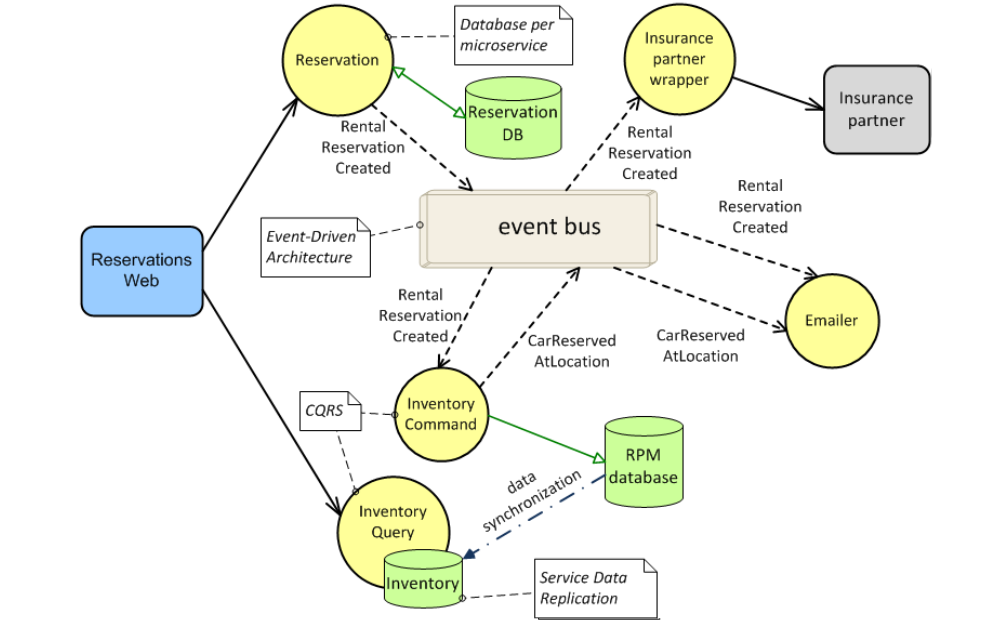
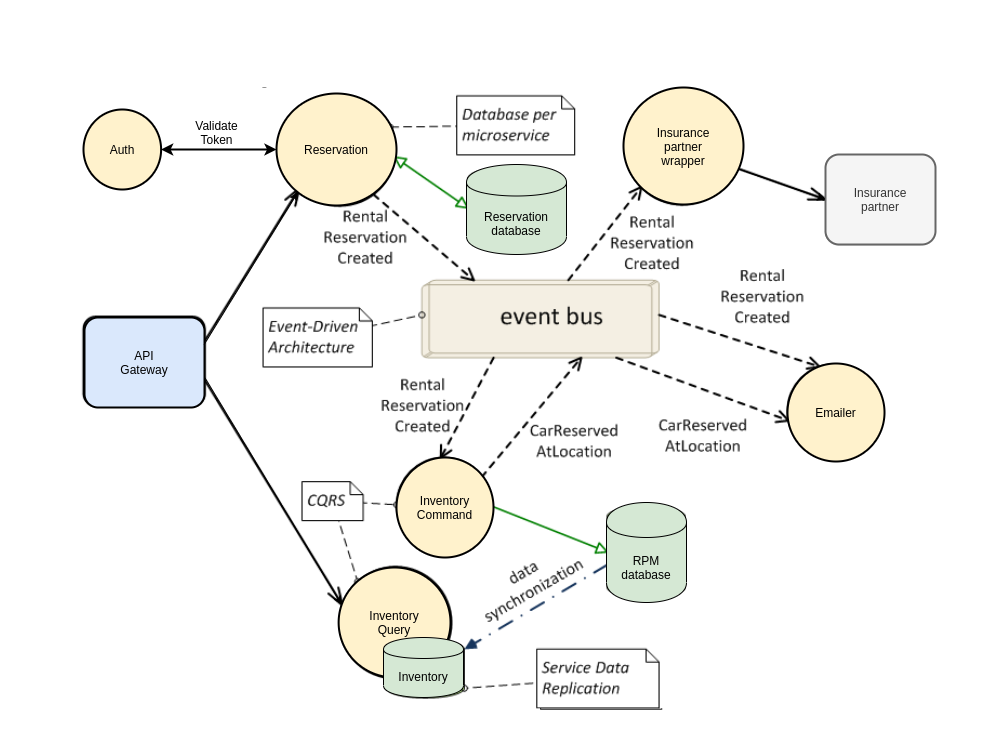
rental car - update

Changed region(s): [[0.0621, 0.0, 0.9629, 0.9937]]

diff --git a/rental-car-example/README.md b/rental-car-example/README.md
@@ -18,8 +18,8 @@ This application demonstrates the patterns:
 
 The following diagram shows the architecture of the Rental Cars application.
 
-![](./images/architecture.png)
+![](./images/architecture_rental_car.png)
 
-The application consists in the services: `Reservation Service`, `Inventory Service`, `Inventory History Service`, `Emailer Service`, and `Insurance Partner Wrapper Service`.
+The application consists in the services: `API Gateway`, `Auth Service`, `Reservation Service`, `Inventory Command Service`, `Inventory Query Service`, `Emailer Service`, and `Insurance Partner Wrapper Service`.
 
 All services are implemented using Spring Boot.
